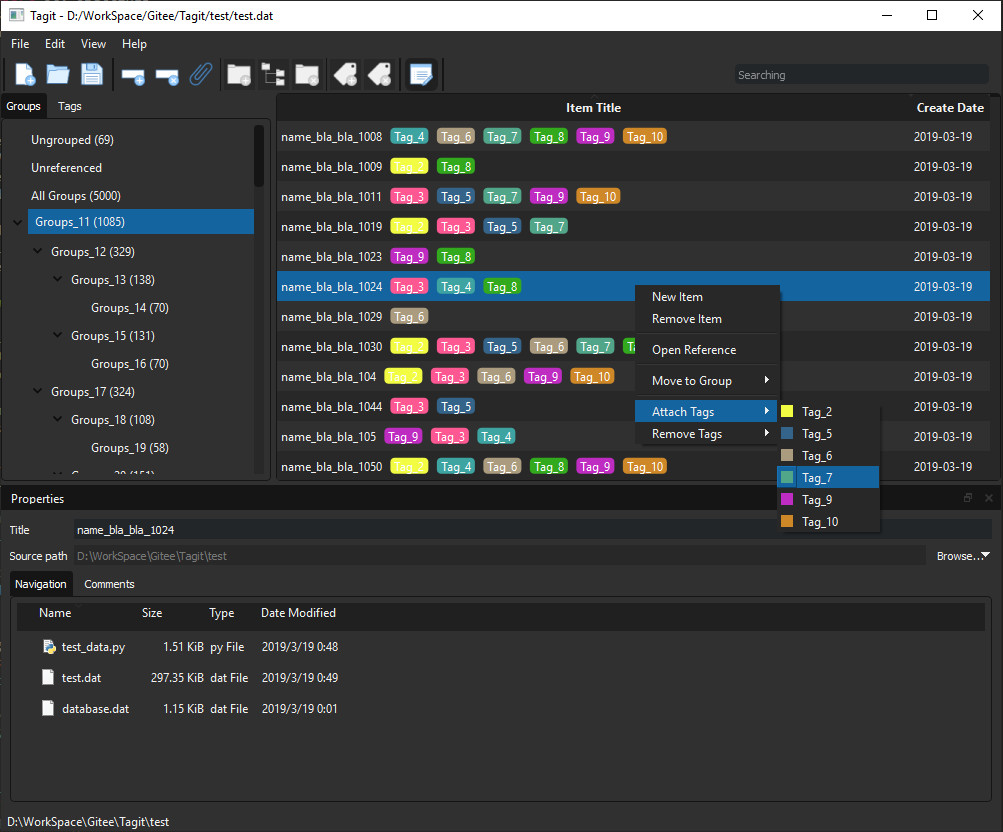
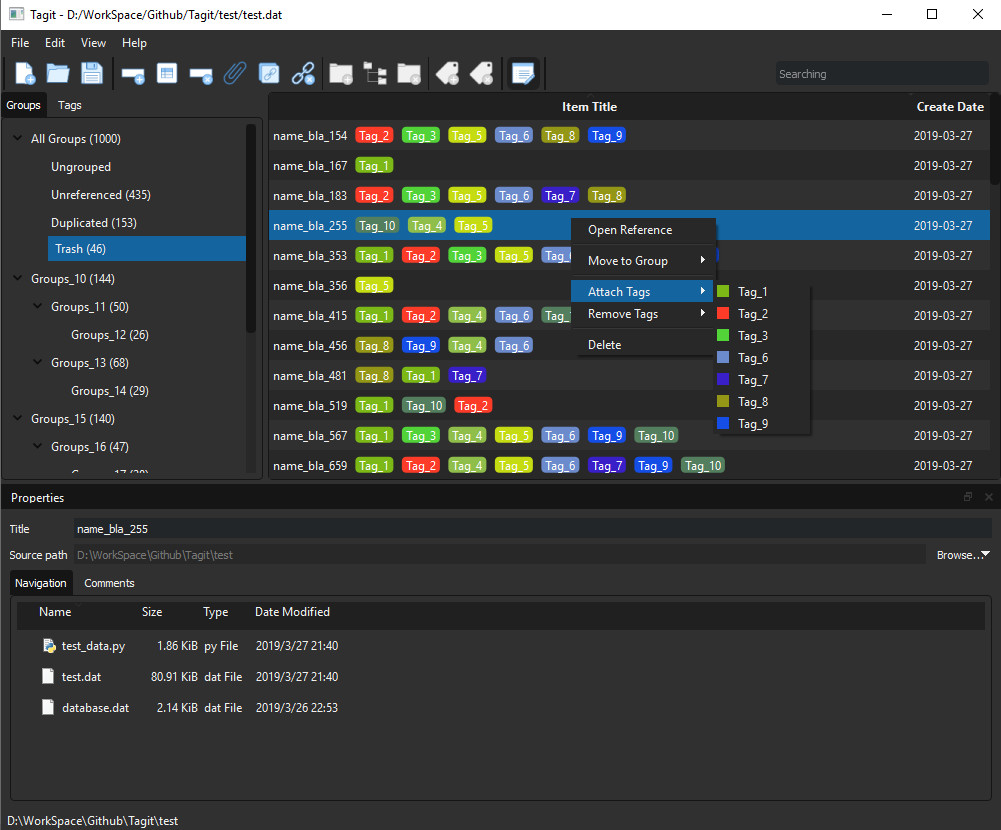
test data generation, including unreferenced, duplicated items

diff --git a/test/test_data.py b/test/test_data.py
@@ -11,6 +11,11 @@ def randomColor():
     colors =  [chars[random.randint(0,14)] for i in range(6)]
     return "#" + ''.join(colors)
 
+def randomInt(lbound, ubound=None):
+	if ubound==None:
+		lbound, ubound = 1, lbound
+	return random.randint(lbound, ubound)
+
 def fun_groups(res, level):
 	if level==0:
 		return
@@ -29,18 +34,18 @@ def fun_items(max_item, max_group, max_tag):
 	scriptPath = os.path.dirname(os.path.abspath(__file__))
 	c_time = time.strftime("%Y-%m-%d",time.localtime(time.time()))
 	return [[
-		"name_bla_bla_{0}".format(i+1), 
-		random.randint(10,max_group), 
-		list(set([random.randint(1,max_tag) for k in range(random.randint(1,max_tag))])), 
-		scriptPath, 
+		"name_{0}_{1}".format('bla'*randomInt(3), randomInt(max_item)), # make duplicated items
+		randomInt(10,max_group), 
+		list(set([randomInt(max_tag) for k in range(randomInt(max_tag))])), # random tags
+		scriptPath if randomInt(10)>5 else 'it/is/aninvalid/path', # invalid path in some probability
 		c_time, 
-		"blablabla" if random.randint(1,10)>5 else "hiahiahia"] for i in range(max_item)]
+		'{0},{1}'.format("bla"*randomInt(5), "hia"*randomInt(0,5))] for i in range(max_item)]
 
 
 
 if __name__ == "__main__":
 
-	group_level, num_tag, num_item = 2, 5, 10
+	group_level, num_tag, num_item = 3, 10, 1000
 
 	groups=[['All Groups', 1, [
             ['Ungrouped', 2, []],
